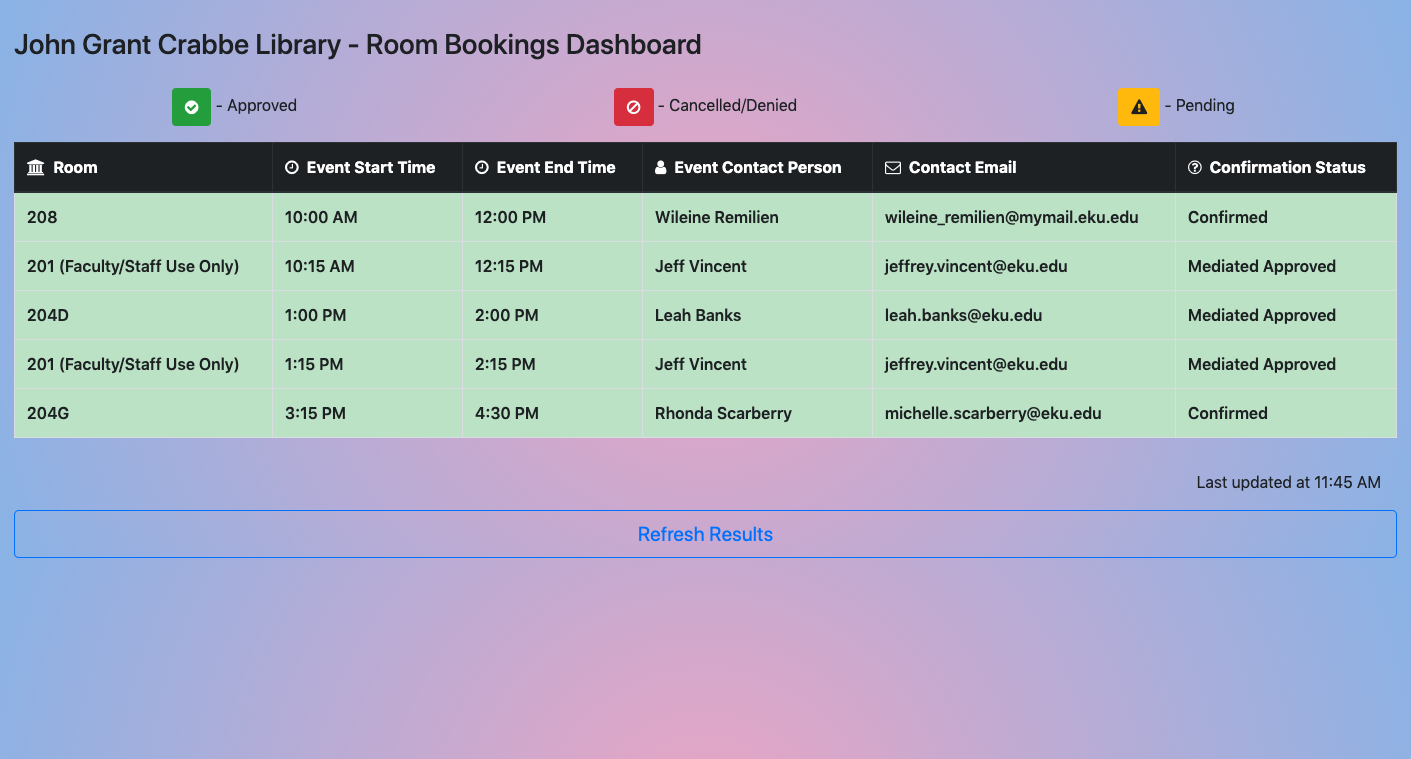
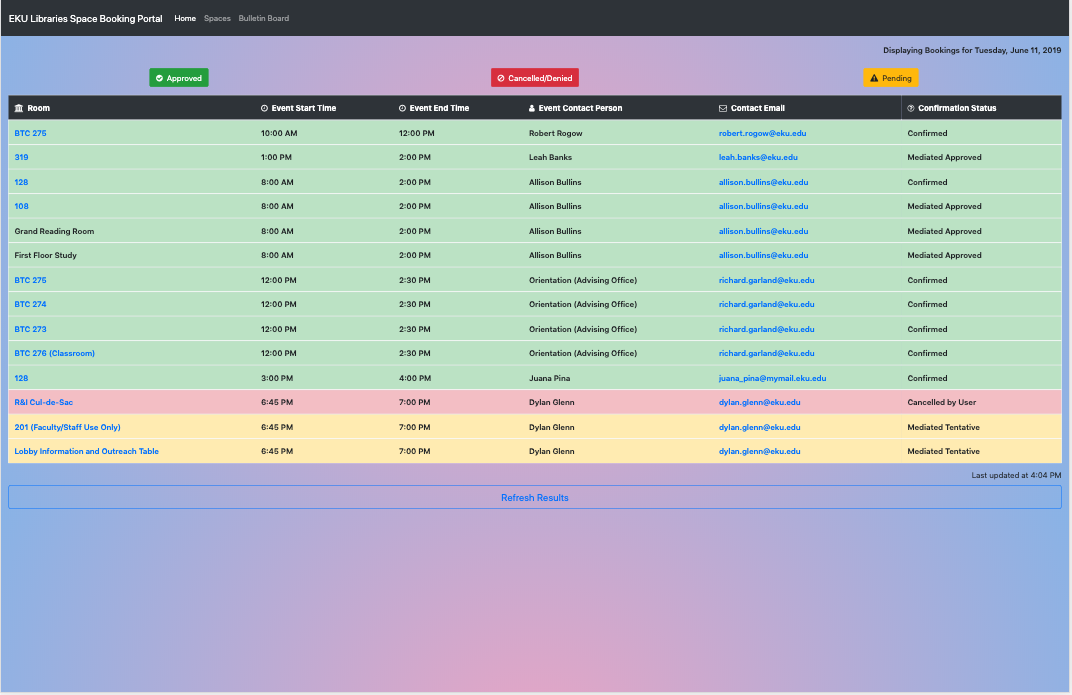
styling tweaks, code to clear .table-warning and .table-danger on refresh (oops), and new screen grab

diff --git a/bookings.html b/bookings.html
@@ -1,6 +1,7 @@
 <!DOCTYPE html>
 <html>
-    <head>
+
+<head>
     <meta charset="UTF-8">
     <meta name="viewport" content="width = device-width, initial-scale = 1.0">
     <meta http-equiv="X-UA-Compatible" content="ie=edge">
@@ -13,14 +14,33 @@
     <script src="bookings.js"></script>
     <link rel="stylesheet" href="bookings.css">
 </head>
+<nav class="navbar navbar-expand-lg navbar-dark bg-dark">
+    <a class="navbar-brand" href="#">EKU Libraries Space Booking Portal</a>
+    <button class="navbar-toggler" type="button" data-toggle="collapse" data-target="#navbarNav" aria-controls="navbarNav" aria-expanded="false" aria-label="Toggle navigation">
+        <span class="navbar-toggler-icon"></span>
+    </button>
+    <div class="collapse navbar-collapse" id="navbarNav">
+        <ul class="navbar-nav">
+            <li class="nav-item active">
+                <a class="nav-link" href="#">Home <span class="sr-only">(current)</span></a>
+            </li>
+            <li class="nav-item">
+                <a class="nav-link" href="#">Spaces</a>
+            </li>
+            <li class="nav-item">
+                <a class="nav-link" href="#">Bulletin Board</a>
+            </li>
+        </ul>
+    </div>
+</nav>
 
 <body class="container-fluid">
-    <div>
-        <h3>John Grant Crabbe Library - Room Bookings Dashboard</h3>
+    <div id="date" class="row">
+        <div class="col">Displaying Bookings for <span class="todaysDate"></span></div>
     </div>
     <div class="row">
         <div class="col legend">
-            <button class="btn btn-success"><i class="fa fa-check-circle" aria-hidden="true"></i>Approved</button> 
+            <button class="btn btn-success"><i class="fa fa-check-circle" aria-hidden="true"></i>Approved</button>
         </div>
         <div class="col legend">
             <button class="btn btn-danger"><i class="fa fa-ban" aria-hidden="true"></i>Cancelled/Denied</button>
@@ -29,22 +49,27 @@
             <button class="btn btn-warning"><i class="fa fa-exclamation-triangle" aria-hidden="true"></i>Pending</button>
         </div>
     </div>
-    <table class="table table-hover">
-        <thead class="thead-dark">
-            <tr>
-                <th scope="col"><i class="fa fa-university table-icons" aria-hidden="true"></i>Room</th>
-                <th scope="col"><i class="fa fa-clock-o table-icons" aria-hidden="true"></i>Event Start Time</th>
-                <th scope="col"><i class="fa fa-clock-o table-icons" aria-hidden="true"></i>Event End Time</th>
-                <th scope="col"><i class="fa fa-user table-icons" aria-hidden="true"></i>Event Contact Person</th>
-                <th scope="col"><i class="fa fa-envelope-o table-icons" aria-hidden="true"></i>Contact Email</th>
-                <th scope="col"><i class="fa fa-question-circle-o table-icons" aria-hidden="true"></i>Confirmation Status</th>
-            </tr>
-        </thead>
-        <tbody>
-        </tbody>
-    </table>
+    <div class="table-responsive">
+        <table class="table table-hover">
+            <thead class="bg-dark text-white
+                          ">
+                <tr>
+                    <th scope="col"><i class="fa fa-university table-icons" aria-hidden="true"></i>Room</th>
+                    <th scope="col"><i class="fa fa-clock-o table-icons" aria-hidden="true"></i>Event Start Time</th>
+                    <th scope="col"><i class="fa fa-clock-o table-icons" aria-hidden="true"></i>Event End Time</th>
+                    <th scope="col"><i class="fa fa-user table-icons" aria-hidden="true"></i>Event Contact Person</th>
+                    <th scope="col"><i class="fa fa-envelope-o table-icons" aria-hidden="true"></i>Contact Email</th>
+                    <th scope="col"><i class="fa fa-question-circle-o table-icons" aria-hidden="true"></i>Confirmation Status</th>
+                </tr>
+            </thead>
+            <tbody>
+            </tbody>
+        </table>
+    </div>
     <div id="timeStamp">
         Last updated at <span class="updatedTime"></span>
     </div>
-    <button type="button" class="btn btn-outline-primary btn-lg btn-block" onclick="getBookings()">Refresh Results</button>
+    <div>
+        <button type="button" class="btn btn-outline-primary btn-lg btn-block" onclick="getBookings()">Refresh Results</button>
+    </div>
 </body></html>

diff --git a/bookings.js b/bookings.js
@@ -1,11 +1,14 @@
 var baseUrl = "https://libcal.eku.edu/";
     
 $(document).ready(function () {
+    loadDate();
     getBookings();
 });
 
 function getBookings() {
     $(".table-success").remove();
+    $(".table-warning").remove();
+    $(".table-danger").remove();
     $.ajax({
         url: baseUrl + '1.1/oauth/token',
         type: "POST",
@@ -80,7 +83,7 @@ function getRoomName(roomId, counter, token) {
         },
         success: function (data) {
             $.each(data, function (k, v) {
-                document.getElementById("roomName" + roomId + "-" + counter).innerHTML = "<a href='" + baseUrl + "/space/" + roomId + "'>" + v.name + "</a>";
+                document.getElementById("roomName" + roomId + "-" + counter).innerHTML = "<a href='" + baseUrl + "space/" + roomId + "'>" + v.name + "</a>";
             });
         }
     });
@@ -92,5 +95,11 @@ function lastUpdatedTime() {
         hour: '2-digit',
         minute: '2-digit'
     }));
+}
+
+function loadDate() {
+    var date = new Date();
+    var options = {weekday: 'long', year: 'numeric', month: 'long', day: 'numeric'};
+    $(".todaysDate").append(date.toLocaleString('en-US', options));
 }
 

diff --git a/bookings.css b/bookings.css
@@ -1,15 +1,26 @@
+nav {
+    margin-bottom: .5em;
+    min-width: 100%;
+    margin-left: -15px;
+    margin-right: -15px;
+}
+
 body {
     background: radial-gradient(circle, rgba(238,174,202,1) 0%, rgba(148,187,233,1) 100%);
 }
 
-h3 {
-    margin-top: 1em;
-    margin-bottom: 1em;
+body div {
+    margin-top: .5em;
+    margin-bottom: .5em;
+}
+
+#date {
+    text-align: right;
+    font-weight: 600;
 }
 
 .legend{
     text-align: center;
-    margin-bottom: 1em;
 }
 
 .legend button i {
@@ -18,13 +29,13 @@ h3 {
 
 #timeStamp {
     float: right;
-    margin: 1em;
+    margin-top: -.75em;
 }
 
 .table-icons {
     margin-right: .5em;
 }
 
-.table-success {
+.table-success, .table-warning, .table-danger {
     font-weight: 600;
 }
